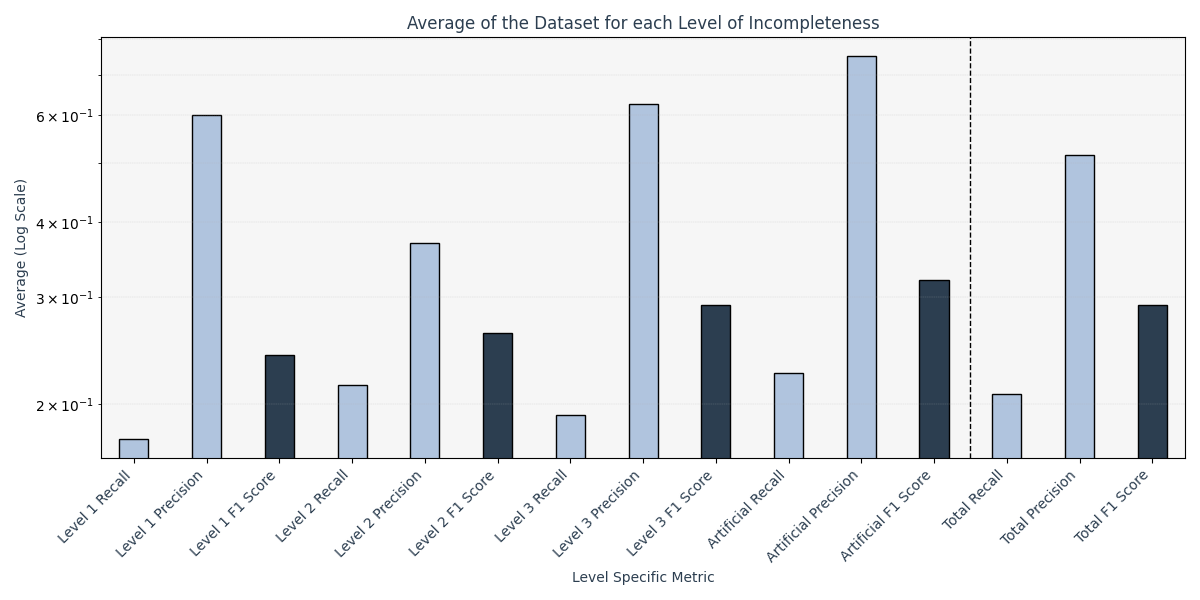
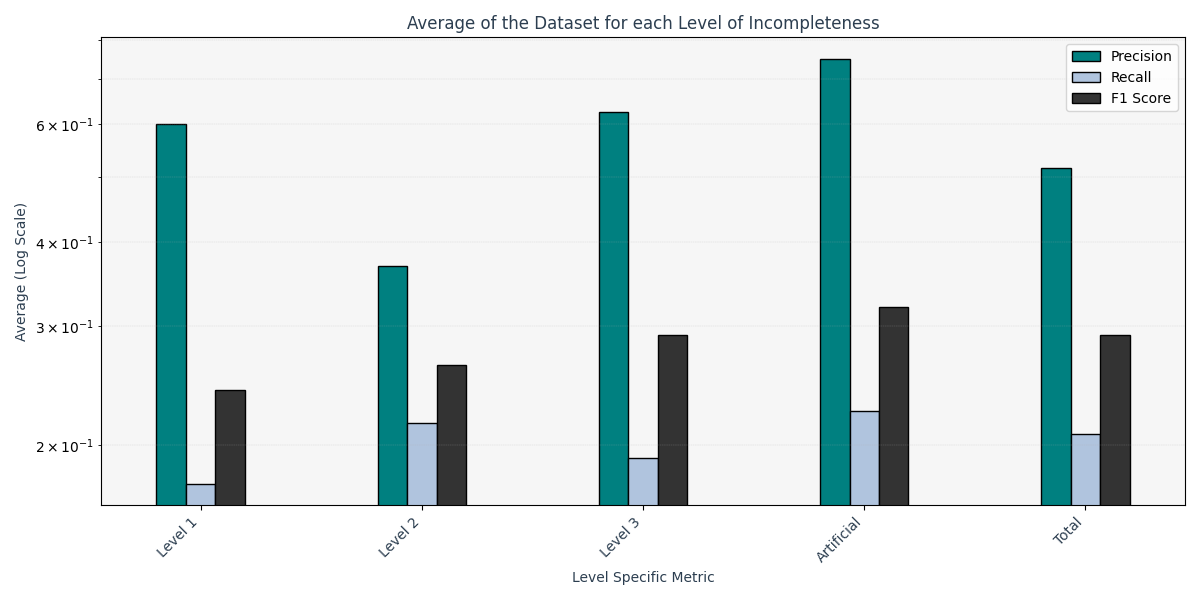
plots updated

diff --git a/src/result_processing/plotting.py b/src/result_processing/plotting.py
@@ -23,27 +23,31 @@ color_palette = {
     'dark_orange': '#542D13',
 }
 
+# Define the new color palette based on the provided image
+bar_colors = [color_palette['teal'], color_palette['light_blue'], color_palette['gray']]
+
 # Common column rename mapping
 columns_rename = {
     'L1 tp': 'Level 1 tp',
     'L1 fp': 'Level 1 fp',
     'L1 fn': 'Level 1 fn',
-    'L1 Recall': 'Level 1 Recall',
-    'L1 Precision': 'Level 1 Precision',
+    'L1 Precision': 'Level 1 Precision',  # Precision first
+    'L1 Recall': 'Level 1 Recall',        # Recall second
     'L1 F1 Score': 'Level 1 F1 Score',
     'L2 tp': 'Level 2 tp',
     'L2 fp': 'Level 2 fp',
     'L2 fn': 'Level 2 fn',
-    'L2 Recall': 'Level 2 Recall',
-    'L2 Precision': 'Level 2 Precision',
+    'L2 Precision': 'Level 2 Precision',  # Precision first
+    'L2 Recall': 'Level 2 Recall',        # Recall second
     'L2 F1 Score': 'Level 2 F1 Score',
     'L3 tp': 'Level 3 tp',
     'L3 fp': 'Level 3 fp',
     'L3 fn': 'Level 3 fn',
-    'L3 Recall': 'Level 3 Recall',
-    'L3 Precision': 'Level 3 Precision',
+    'L3 Precision': 'Level 3 Precision',  # Precision first
+    'L3 Recall': 'Level 3 Recall',        # Recall second
     'L3 F1 Score': 'Level 3 F1 Score'
 }
+
 
 rows_rename = {
     '2001_esa': '2001 - esa',
@@ -111,34 +115,6 @@ def plot_grouped_bar(data, custom_order, title, xlabel, ylabel):
     plt.show()
 
 
-def plot_comparison(data1, data2, entries_to_compare, title):
-    df1_filtered = data1[data1['Id'].isin(entries_to_compare)]
-    df2_filtered = data2[data2['Id'].isin(entries_to_compare)]
-
-    extracted_df1 = df1_filtered[['Total Recall', 'Total Precision', 'Total F1 Score']]
-    extracted_df2 = df2_filtered[['Total Recall', 'Total Precision', 'Total F1 Score']]
-
-    avg_df1 = extracted_df1.mean()
-    avg_df2 = extracted_df2.mean()
-
-    comparison_df = pd.DataFrame({
-        'Comma Delimiter': avg_df1,
-        'Semicolon Delimiter': avg_df2
-    })
-
-    plot_bar(
-        comparison_df,
-        title,
-        'Metrics',
-        'Average F1 Scores',
-        xtick_rotation=0,
-        xtick_ha='center',
-        colors=[color_palette['dark_blue'], color_palette['orange']],
-        width=0.25,
-        figsize=(9, 6)
-    )
-
-
 def main():
     # Load data
     df1 = load_and_prepare_data(csv_files['2021_init-v'], '2021 - init-v')
@@ -160,104 +136,47 @@ def main():
     plot_grouped_bar(combined_df, custom_order, 'F1 Scores Grouped by Prompts', 'Prompt Technique', 'F1 Score')
 
     # Document Total Scores Dataset-wide
-    extracted_df = df_adv[['Id', 'Total Recall', 'Total Precision', 'Total F1 Score']].set_index('Id')
+    extracted_df = df_adv[['Id', 'Total Precision', 'Total Recall', 'Total F1 Score']].set_index(
+        'Id')  # Precision first
     plot_bar(
         extracted_df,
-        'Total Recall, Precision, and F1 Score by ID',
+        'Total Precision, Recall, and F1 Score by ID',  # Update title to reflect Precision first
         'Document',
         'Scores',
         xtick_rotation=0,
         xtick_ha='center',
-        colors=[color_palette['gray'], color_palette['light_blue'], color_palette['teal']]
+        colors=bar_colors
     )
 
     # Level Detailed average Dataset-wide
     df_filtered = df_adv.drop(columns=['Id']).filter(regex='^(?!.*(tp|fp|fn)).*$').apply(pd.to_numeric,
                                                                                          errors='coerce').fillna(0)
+
+    # Select and reorder columns to ensure Precision comes first, then Recall, and finally F1 Score
+    column_order = [col for col in df_filtered.columns if 'Precision' in col] + \
+                   [col for col in df_filtered.columns if 'Recall' in col] + \
+                   [col for col in df_filtered.columns if 'F1 Score' in col]
+
+    df_filtered = df_filtered[column_order]
     column_average = df_filtered.sum().div(len(df_filtered))
 
-    bar_colors = []
-    for column in df_filtered.columns:
-        if 'F1 Score' in column:
-            bar_colors.append(color_palette['dark_blue'])  # Use the desired color for F1 Score
-        else:
-            bar_colors.append(color_palette['light_blue'])  # Default color or provided colors
+    # Reshape data to group by Level, including "Artificial" and "Total"
+    grouped_data = pd.DataFrame({
+        'Level 1': [column_average['Level 1 Precision'], column_average['Level 1 Recall'],
+                    column_average['Level 1 F1 Score']],
+        'Level 2': [column_average['Level 2 Precision'], column_average['Level 2 Recall'],
+                    column_average['Level 2 F1 Score']],
+        'Level 3': [column_average['Level 3 Precision'], column_average['Level 3 Recall'],
+                    column_average['Level 3 F1 Score']],
+        'Artificial': [column_average['Artificial Precision'], column_average['Artificial Recall'],
+                       column_average['Artificial F1 Score']],
+        'Total': [column_average['Total Precision'], column_average['Total Recall'], column_average['Total F1 Score']]
+    }, index=['Precision', 'Recall', 'F1 Score']).T
 
+    # Plot grouped bars with correct order
     plot_bar(
-        column_average,
+        grouped_data,
         'Average of the Dataset for each Level of Incompleteness',
-        'Level Specific Metric',
-        'Average (Log Scale)',
-        yscale='log',
-        colors=bar_colors,
-        axv_line=12
-    )
-
-    # Comma vs Semicolon
-    df_comma = load_and_prepare_data(csv_files['comma_delimiter']).rename(columns=columns_rename)
-    df_semi = load_and_prepare_data(csv_files['advanced']).rename(columns=columns_rename)
-
-    plot_comparison(
-        df_comma,
-        df_semi,
-        entries_to_compare=['2005_nenios', '2024_topo_sim'],
-        title='Comma vs Semicolon Delimiter'
-    )
-
-    # Document wise delimiter comparison plots
-    for entry in ['2005_nenios', '2024_topo_sim']:
-        df1_filtered = df_comma[df_comma['Id'] == entry].drop(columns=['Id']).filter(regex='^(?!.*(tp|fp|fn)).*$')
-        df2_filtered = df_semi[df_semi['Id'] == entry].drop(columns=['Id']).filter(regex='^(?!.*(tp|fp|fn)).*$')
-
-        df1_average = df1_filtered.apply(pd.to_numeric, errors='coerce').fillna(0).mean()
-        df2_average = df2_filtered.apply(pd.to_numeric, errors='coerce').fillna(0).mean()
-
-        comparison_df = pd.DataFrame({
-            'Comma Delimiter': df1_average,
-            'Semicolon Delimiter': df2_average
-        })
-
-        plot_bar(
-            comparison_df,
-            f'Delimiter Comparison: {entry} Levels of Incompleteness',
-            'Level Specific Metric',
-            'Score (Log Scale)',
-            yscale='log',
-            colors=[color_palette['orange'], color_palette['teal']]
-        )
-
-    # 2 Plots for comma delimiter
-    df_comma = load_and_prepare_data(csv_files['comma_delimiter']).rename(columns=columns_rename)
-    df_comma['Id'] = df_comma['Id'].replace(rows_rename)
-
-    extracted_df = df_comma[['Id', 'Total Recall', 'Total Precision', 'Total F1 Score']].set_index('Id')
-    plot_bar(
-        extracted_df,
-        'Total Scores for Comma Delimiter Tested Documents',
-        'Document',
-        'Scores',
-        xtick_rotation=0,
-        xtick_ha='center',
-        colors=[color_palette['gray'], color_palette['light_blue'], color_palette['teal']],
-        width=0.25,
-        figsize=(9, 6)
-    )
-
-    # Level Detailed average Dataset-wide
-    df_filtered = df_comma.drop(columns=['Id']).filter(regex='^(?!.*(tp|fp|fn)).*$').apply(pd.to_numeric,
-                                                                                         errors='coerce').fillna(0)
-    column_average = df_filtered.sum().div(len(df_filtered))
-
-    bar_colors = []
-    for column in df_filtered.columns:
-        if 'F1 Score' in column:
-            bar_colors.append(color_palette['dark_blue'])  # Use the desired color for F1 Score
-        else:
-            bar_colors.append(color_palette['light_blue'])  # Default color or provided colors
-
-    plot_bar(
-        column_average,
-        'Average Scores for Comma Delimiter Tested Documents',
         'Level Specific Metric',
         'Average (Log Scale)',
         yscale='log',

diff --git a/src/result_processing/plot_scenarios/delimiter_difference.py b/src/result_processing/plot_scenarios/delimiter_difference.py
@@ -1,0 +1,109 @@
+from result_processing.plotting import plot_bar, load_and_prepare_data, color_palette, columns_rename, rows_rename
+
+csv_files = {
+    '2021_init-v': '../../out/exploration/2021_init-v_exploration_score.csv',
+    '2022_neutero': '../../out/exploration/2022_neutero_exploration_score.csv',
+    '2023_octo': '../../out/exploration/2023_octo_exploration_score.csv',
+    'advanced': '../../out/advanced/advanced_score.csv',
+    'comma_delimiter': '../../out/delimiter_difference/comma_delimiter_score.csv',
+}
+
+def plot_comparison(data1, data2, entries_to_compare, title):
+    df1_filtered = data1[data1['Id'].isin(entries_to_compare)]
+    df2_filtered = data2[data2['Id'].isin(entries_to_compare)]
+
+    extracted_df1 = df1_filtered[['Total Recall', 'Total Precision', 'Total F1 Score']]
+    extracted_df2 = df2_filtered[['Total Recall', 'Total Precision', 'Total F1 Score']]
+
+    avg_df1 = extracted_df1.mean()
+    avg_df2 = extracted_df2.mean()
+
+    comparison_df = pd.DataFrame({
+        'Comma Delimiter': avg_df1,
+        'Semicolon Delimiter': avg_df2
+    })
+
+    plot_bar(
+        comparison_df,
+        title,
+        'Metrics',
+        'Average F1 Scores',
+        xtick_rotation=0,
+        xtick_ha='center',
+        colors=[color_palette['dark_blue'], color_palette['orange']],
+        width=0.25,
+        figsize=(9, 6)
+    )
+
+
+# Comma vs Semicolon
+    df_comma = load_and_prepare_data(csv_files['comma_delimiter']).rename(columns=columns_rename)
+    df_semi = load_and_prepare_data(csv_files['advanced']).rename(columns=columns_rename)
+
+    plot_comparison(
+        df_comma,
+        df_semi,
+        entries_to_compare=['2005_nenios', '2024_topo_sim'],
+        title='Comma vs Semicolon Delimiter'
+    )
+
+    # Document wise delimiter comparison plots
+    for entry in ['2005_nenios', '2024_topo_sim']:
+        df1_filtered = df_comma[df_comma['Id'] == entry].drop(columns=['Id']).filter(regex='^(?!.*(tp|fp|fn)).*$')
+        df2_filtered = df_semi[df_semi['Id'] == entry].drop(columns=['Id']).filter(regex='^(?!.*(tp|fp|fn)).*$')
+
+        df1_average = df1_filtered.apply(pd.to_numeric, errors='coerce').fillna(0).mean()
+        df2_average = df2_filtered.apply(pd.to_numeric, errors='coerce').fillna(0).mean()
+
+        comparison_df = pd.DataFrame({
+            'Comma Delimiter': df1_average,
+            'Semicolon Delimiter': df2_average
+        })
+
+        plot_bar(
+            comparison_df,
+            f'Delimiter Comparison: {entry} Levels of Incompleteness',
+            'Level Specific Metric',
+            'Score (Log Scale)',
+            yscale='log',
+            colors=[color_palette['orange'], color_palette['teal']]
+        )
+
+    # 2 Plots for comma delimiter
+    df_comma = load_and_prepare_data(csv_files['comma_delimiter']).rename(columns=columns_rename)
+    df_comma['Id'] = df_comma['Id'].replace(rows_rename)
+
+    extracted_df = df_comma[['Id', 'Total Recall', 'Total Precision', 'Total F1 Score']].set_index('Id')
+    plot_bar(
+        extracted_df,
+        'Total Scores for Comma Delimiter Tested Documents',
+        'Document',
+        'Scores',
+        xtick_rotation=0,
+        xtick_ha='center',
+        colors=[color_palette['gray'], color_palette['light_blue'], color_palette['teal']],
+        width=0.25,
+        figsize=(9, 6)
+    )
+
+    # Level Detailed average Dataset-wide
+    df_filtered = df_comma.drop(columns=['Id']).filter(regex='^(?!.*(tp|fp|fn)).*$').apply(pd.to_numeric,
+                                                                                         errors='coerce').fillna(0)
+    column_average = df_filtered.sum().div(len(df_filtered))
+
+    bar_colors = []
+    for column in df_filtered.columns:
+        if 'F1 Score' in column:
+            bar_colors.append(color_palette['dark_blue'])  # Use the desired color for F1 Score
+        else:
+            bar_colors.append(color_palette['light_blue'])  # Default color or provided colors
+
+    plot_bar(
+        column_average,
+        'Average Scores for Comma Delimiter Tested Documents',
+        'Level Specific Metric',
+        'Average (Log Scale)',
+        yscale='log',
+        colors=bar_colors,
+        axv_line=12
+    )

diff --git a/src/llm/llm_creator.py b/src/llm/llm_creator.py
@@ -65,8 +65,3 @@ def create_llm_ollama():
         headers=headers
     )
     return llm
-
-
-def create_embedder():
-    embeddings_model = OpenAIEmbeddings(api_key=OPENAI_API_KEY)
-    return embeddings_model
